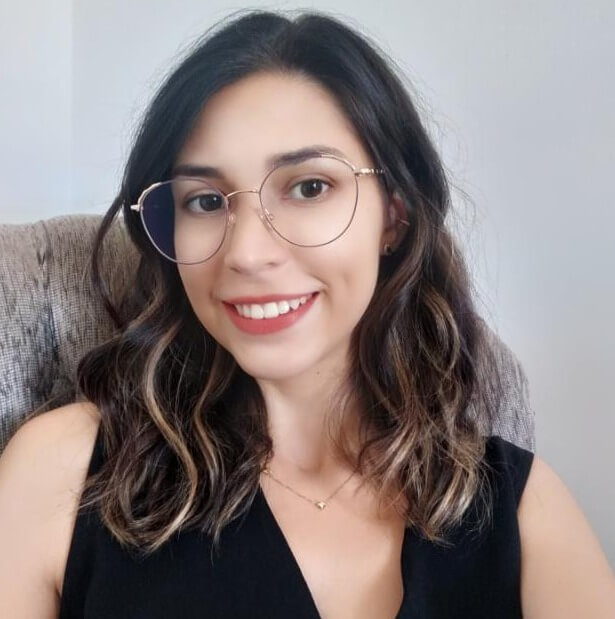
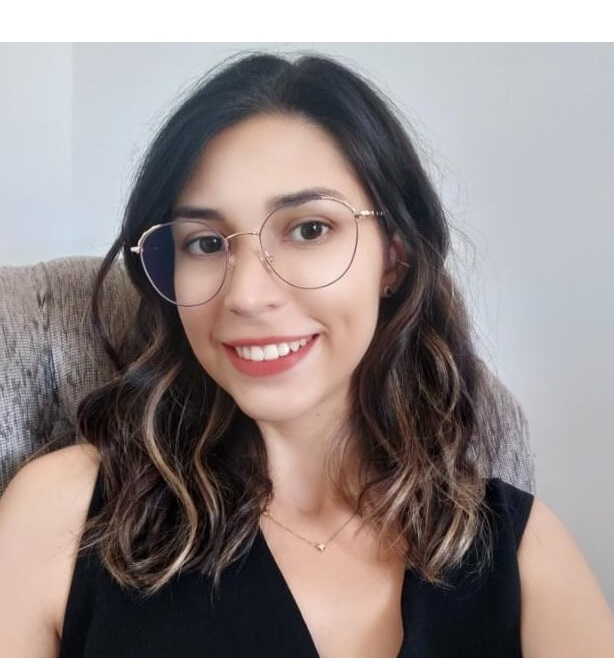
modicando o site

diff --git a/index.html b/index.html
@@ -5,9 +5,7 @@
     <meta charset="utf-8">
     <title>Psicóloga Nicole Tartarelli</title>
     <meta content="width=device-width, initial-scale=1.0" name="viewport">
-    <meta content="Free Website Template" name="keywords">
-    <meta content="Free Website Template" name="description">
-    <meta property="og:image" content="img/nicole.jpeg" />
+    <meta property="og:image" content="img/nicole - Copia.jpeg"  class="clipped" />
     <!-- Favicon -->
     <link href="img/favicon.ico" rel="icon">
 
@@ -38,12 +36,12 @@
             </button>
 
             <div class="collapse navbar-collapse justify-content-between" id="navbarCollapse">
-                <div class="navbar-nav ml-auto">
+                <div class="navbar-nav mx-auto justify-content-center">
                     <a href="#home" class="nav-item nav-link active">Início</a>
                     <a href="#about" class="nav-item nav-link">Sobre mim</a>
                     <a href="#service" class="nav-item nav-link">Psicoterapia Psicanalítica</a>
-                    <a href="#online" class="nav-item nav-link">Psicoterapia Online</a>
                     <a href="#presencial" class="nav-item nav-link">Psicoterapia Presencial</a>
+                    <a href="#online" class="nav-item nav-link">Psicoterapia Online</a>
                     <a href="#contact" class="nav-item nav-link">Contato</a>
                 </div>
             </div>
@@ -85,7 +83,7 @@
             <div class="row align-items-center">
                 <div class="col-lg-6">
                     <div class="about-img">
-                        <img src="img/nicole.jpeg" alt="Image">
+                        <img src="img/nicole - Copia.jpeg" alt="Image"  class="clipped">
                     </div>
                 </div>
                 <div class="col-lg-6">
@@ -95,13 +93,12 @@
                         </div>
                         <div class="about-text">
                             <p>
-                                Olá! Meu nome é Nicole Tartarelli, sou psicóloga formada pela PUCRS e especialista em
-                                psicoterapia de orientação psicanalítica, pela Horizontes. Atuo como psicoterapeuta em
+                                Olá! Meu nome é Nicole Tartarelli, sou psicóloga formada pela PUCRS (CRP: 07/29435) e especialista em
+                                psicoterapia de orientação psicanalítica, pelo Instituto Horizontes. Atuo como psicoterapeuta de orientação analítica em
                                 atendimentos presenciais e on-line para crianças, adolescentes e adultos.
                                 Acredito que a psicanálise proporciona com que o indivíduo encontre, através da própria
                                 história, outras narrativas, (re)significações e (re)encontros, com isso podendo
                                 escolher outros caminhos e possibilidades para viver.
-                                Nicole A. Tartarelli – CRP: 07/29435
                             </p>
                         </div>
                     </div>
@@ -121,21 +118,20 @@
             <div class="row">
                 <div class="col-lg wow fadeInUp" data-wow-delay="0.6s">
                     <div class="service-item">
-                        <div class="service-text">
+                        <div class="about-text">
                             <p>
                                 A psicoterapia psicanalítica é um tratamento terapêutico que busca ajudar os pacientes
                                 através da técnica e abordagem da psicanálise. Esta, por sua vez, vai na contramão do
                                 mundo atual: busca entender a causa dos sofrimentos e incômodos. Por este motivo não
                                 traz respostas prontas, mas sim, ajuda o indivíduo a pensar sobre si, sobre suas
-                                questões, repetições, seus medos, angústias, alegrias e tristezas. Quando algo é pensado
-                                e entendido, pode-se dar um novo caminho para ele, através da mudança.
+                                questões, repetições, seus medos, angústias, suas relações e quaisquer inquietações que a pessoa traga consigo. 
+                                Quando algo é pensado e entendido, pode-se dar um novo caminho para ele, através da mudança.
                                 A consulta tem duração de 45 minutos e os encontros são, no mínimo, semanais. A
                                 psicoterapia é feita pela dupla: terapeuta e paciente. O primeiro, precisa ter uma
                                 escuta afinada e atenta, junto com uma postura empática e acolhedora, e com a teoria
                                 para lhe ajudar a entender o paciente. O segundo, precisa ter a motivação para iniciar e
                                 continuar no tratamento.
                                 Existe duas possibilidades de tratamento: on-line e presencial.
-
                             </p>
                         </div>
                     </div>
@@ -145,66 +141,76 @@
     </div>
     <!-- Service End -->
 
-    <!-- Banner Start -->
-    <div class="banner" data-wow-delay="0.1s" id="online">
-        <div class="container">
-            <div class="section-header text-center">
-                <p>Psicoterapia Online</p>
-            </div>
-            <div class="container banner-text">
-                <p>
-                    Assim como na psicoterapia presencial, questões essenciais do atendimento serão mantidas: a
-                    escuta
-                    qualificada, o acolhimento e o sigilo.
-                    A modalidade on-line se torna mais acessível em relação ao deslocamento, já que não precisa sair
-                    de
-                    casa, e possibilita o atendimento a pessoas de diferentes lugares e países.
-                    A realização da psicoterapia on-line é feita por meio de videochamada, podendo ser realizada
-                    pelo
-                    celular, notebook, computador ou tablet. Terão duas plataformas digitais ao seu dispor, podendo
-                    ser
-                    escolhida a que melhor se adapta a pessoa.
-                    Recomenda-se a utilização de fones de ouvido, a fim de manter o sigilo da consulta e uma rede de
-                    internet estável.
-                    *Obs.: Dependendo da demanda, em alguns casos, não se recomenda a psicoterapia nesta modalidade.
-                    Será avaliado cada caso individualmente.
-                </p>
-            </div>
-        </div>
-    </div>
-    <!-- Banner End -->
 
-    <!-- Banner Start -->
+
     <div class="banner" data-wow-delay="0.1s" id="presencial">
-        <div class="container">
-            <div class="section-header text-center">
-                <p>Psicoterapia Presencial</p>
+        <div class="container-fluid">
+          <div class="row align-items-center">
+            <div class="col-lg-6">
+              <div class="about-img position-relative">
+                <div class="overlay"></div> <!-- Pink square overlay -->
+                <img src="img/sala.jpg" alt="Image" class="clipped">
+              </div>
             </div>
-            <div class="container banner-text">
-                <p>
-                    Em uma sala aconchegante, situada na rua Mostardeiro, nº 333 de Porto Alegre, o acolhimento e
+            <div class="col-lg-6">
+              <div class="about-content">
+                <div class="section-header-pink text-center wow zoomIn" data-wow-delay="0.1s">
+                  <p>Psicoterapia Presencial</p>
+                </div>
+                <div class="container banner-text">
+                  <p>
+                    Em uma sala aconchegante, situada na rua Wenceslau Escobar, nº 1134 de Porto Alegre, o acolhimento e
                     sigilo são partes fundamentais para que ocorra a psicoterapia.
                     Para as crianças e adolescentes, há um espaço e jogos para que ambos consigam se mostrar e ter seu
-                    lugar. O brincar, que por si só já é terapêutico, ajuda na compreensão do mundo interno e conflitos
+                    lugar. O brincar e o jogar, que por si só já é terapêutico, ajuda na compreensão do mundo interno e conflitos
                     que estão passando. Com o tratamento, podemos perceber e avaliar o que é algo esperado para a idade,
                     ou algo mais patológico.
                     Para os adultos, o principal instrumento é a fala. É através dela que o indivíduo irá nos mostrar
                     como ele é, como se relaciona com os outros.
-                </p>
+                  </p>
+                </div>
+              </div>
             </div>
+          </div>
         </div>
-    </div>
-    <!-- Banner End -->
+      </div>
 
-    <!-- Contact Start -->
+
+    '''
+    <div class="banner" data-wow-delay="0.1s" id="online">
+        <div class="container-fluid">
+          <div class="row align-items-center">
+            <div class="col-lg-6">
+              <div class="about-img position-relative">
+                <div class="overlay"></div> <!-- Pink square overlay -->
+                <img src="img/atendimento_online.jpg" alt="Image" class="clipped">
+              </div>
+            </div>
+            <div class="col-lg-6">
+              <div class="about-content">
+                <div class="section-header-pink text-center wow zoomIn" data-wow-delay="0.1s">
+                  <p>Atendimento Online</p>
+                </div>
+                <div class="container banner-text">
+                  <p>
+                    Assim como na psicoterapia presencial, questões essenciais do atendimento serão mantidas: a escuta qualificada, o acolhimento e o sigilo. A modalidade on-line se torna mais acessível em relação ao deslocamento, já que não precisa sair de casa, e possibilita o atendimento a pessoas de diferentes lugares e países. A realização da psicoterapia on-line é feita por meio de videochamada, podendo ser realizada pelo celular, notebook, computador ou tablet. Terão duas plataformas digitais ao seu dispor, podendo ser escolhida a que melhor se adapta a pessoa. Recomenda-se a utilização de fones de ouvido, a fim de manter o sigilo da consulta e uma rede de internet estável. *Obs.: Dependendo da demanda, em alguns casos, não se recomenda a psicoterapia nesta modalidade. Será avaliado cada caso individualmente.
+                  </p>
+                </div>
+              </div>
+            </div>
+          </div>
+        </div>
+      </div>
+
     <div class="wow fadeInUp" data-wow-delay="0.1s" id="contact">
         <div class="container-fluid">
             <div class="container">
                 <div class="row align-items-center">
+            
                     <div class="section-header text-center wow zoomIn" data-wow-delay="0.1s">
                         <p>Localização</p>
                     </div>
-                    <div class="col-md-4"></div>
+                    
                     <div class="col-md-8">
                         <div class="contact-form">
                             <div id="success"></div>
@@ -221,7 +227,17 @@
             </div>
         </div>
     </div>
+
+
+
+
+
+
+
+
+
     <!-- Contact End -->
+
 
     <!-- Footer Start -->
     <div class="footer wow fadeIn" data-wow-delay="0.3s">

diff --git a/css/style.css b/css/style.css
@@ -291,9 +291,44 @@ a:focus {
 }
 
 .hero .hero-image img {
-    max-width: 80%;
-    max-height: 80%;
+    max-width: 20%;
+    max-height: 20%;
+    
 }
+
+.about-img {
+    position: relative;
+  }
+  
+  .overlay {
+    position: absolute;
+    top: 30%;
+    left: -30px; /* Adjusts the distance between the image and the overlay */
+    transform: translateY(-50%);
+    width: 60px;
+    height: 50px; /* Change this to adjust the size of the square */
+    background-color: #b76e79; /* Use your desired color here */
+  }
+
+.hero .hero-image .overlay {
+    position: absolute;
+    top: 50%;
+    left: 0;
+    transform: translate(-50%, -50%);
+    width: 60px;
+    height: 60px;
+    background-color: #ff69b4;
+    z-index: 1;
+  }
+
+
+
+
+.clipped {
+    border-radius: 60px 0 60px 0;
+    max-width: 75%;
+    max-height: 75%;
+  }
 
 .hero .hero-content {
     position: relative;
@@ -495,6 +530,66 @@ a:focus {
     }
 }
 
+/**pink**/
+
+.section-header-pink {
+    position: relative;
+    margin-bottom: 45px;
+}
+
+.section-header-pink p {
+    display: inline-block;
+    margin: 0 30px;
+    margin-bottom: 10px;
+    padding-left: 15px;
+    position: relative;
+    font-size: 16px;
+    font-weight: 600;
+    letter-spacing: 1px;
+    text-transform: uppercase;
+    color: white; /* Add this line */ 
+}
+.section-header-pink p::before {
+  content: "";
+  position: absolute;
+  top: 50%;
+  left: -30px; /* Position the pseudo-element to the left of the text */
+  width: 30px; /* Set the width of the line */
+  height: 3px; /* Set the height of the line */
+  background-color: #b7736e; /* Set the color of the line */
+  border-radius: 2px; /* Create a squared end for the line */
+  transform: translateY(-50%); /* Center the line vertically */
+}
+
+.section-header-pink p::after {
+  content: "";
+  position: absolute;
+  top: 50%;
+  left: 3px; /* Position the pseudo-element to the right of the line */
+  width: 3px; /* Set the width of the dot */
+  height: 3px; /* Set the height of the dot */
+  background-color: #b7736e; /* Set the color of the dot */
+  transform: translateY(-50%); /* Center the dot vertically */
+}
+
+
+.section-header-pink h2 {
+    margin: 0;
+    position: relative;
+    font-size: 45px;
+    font-weight: 700;
+}
+
+@media (max-width: 767.98px) {
+    .section-header-pink h2 {
+        font-size: 30px;
+    }
+}
+
+
+
+/**pink**/
+
 
 /*******************************/
 /********** About CSS **********/
@@ -516,6 +611,7 @@ a:focus {
 .about .about-img {
     position: relative;
     height: 100%;
+    top: 20px
 }
 
 .about .about-img img {
@@ -1498,3 +1594,36 @@ a:focus {
         padding: 0 5px;
     }
 }
+
+
+.embed-responsive-4by3 {
+    position: relative;
+    display: block;
+    width: 100%;
+    padding: 0;
+    overflow: hidden;
+  }
+  
+  .embed-responsive-4by3::before {
+    content: "";
+    display: block;
+    padding-top: 75%; /* 4:3 Aspect Ratio (h / w * 100%) */
+  }
+  
+  .embed-responsive-4by3 iframe {
+    position: absolute;
+    top: 0;
+    left: 0;
+    bottom: 0;
+    right: 0;
+    width: 100%;
+    height: 100%;
+  }
+  .embed-responsive-4by3 iframe {
+    margin: auto;
+  }
+
+  .embed-responsive-4by3 iframe {
+    display: block;
+    margin: 0 auto;
+  }

diff --git a/js/main.js b/js/main.js
@@ -106,4 +106,3 @@
     });
     
 })(jQuery);
-

diff --git a/mail/contact.php b/mail/contact.php
@@ -9,7 +9,7 @@ $email = strip_tags(htmlspecialchars($_POST['email']));
 $m_subject = strip_tags(htmlspecialchars($_POST['subject']));
 $message = strip_tags(htmlspecialchars($_POST['message']));
 
-$to = "maxmendes05@hotmail.com"; // Change this email to your //
+$to = "marco.bochernitsan@gmail.com"; 
 $subject = "$m_subject:  $name";
 $body = "You have received a new message from your website contact form.\n\n"."Here are the details:\n\nName: $name\n\n\nEmail: $email\n\nSubject: $m_subject\n\nMessage: $message";
 $header = "From: $email";
